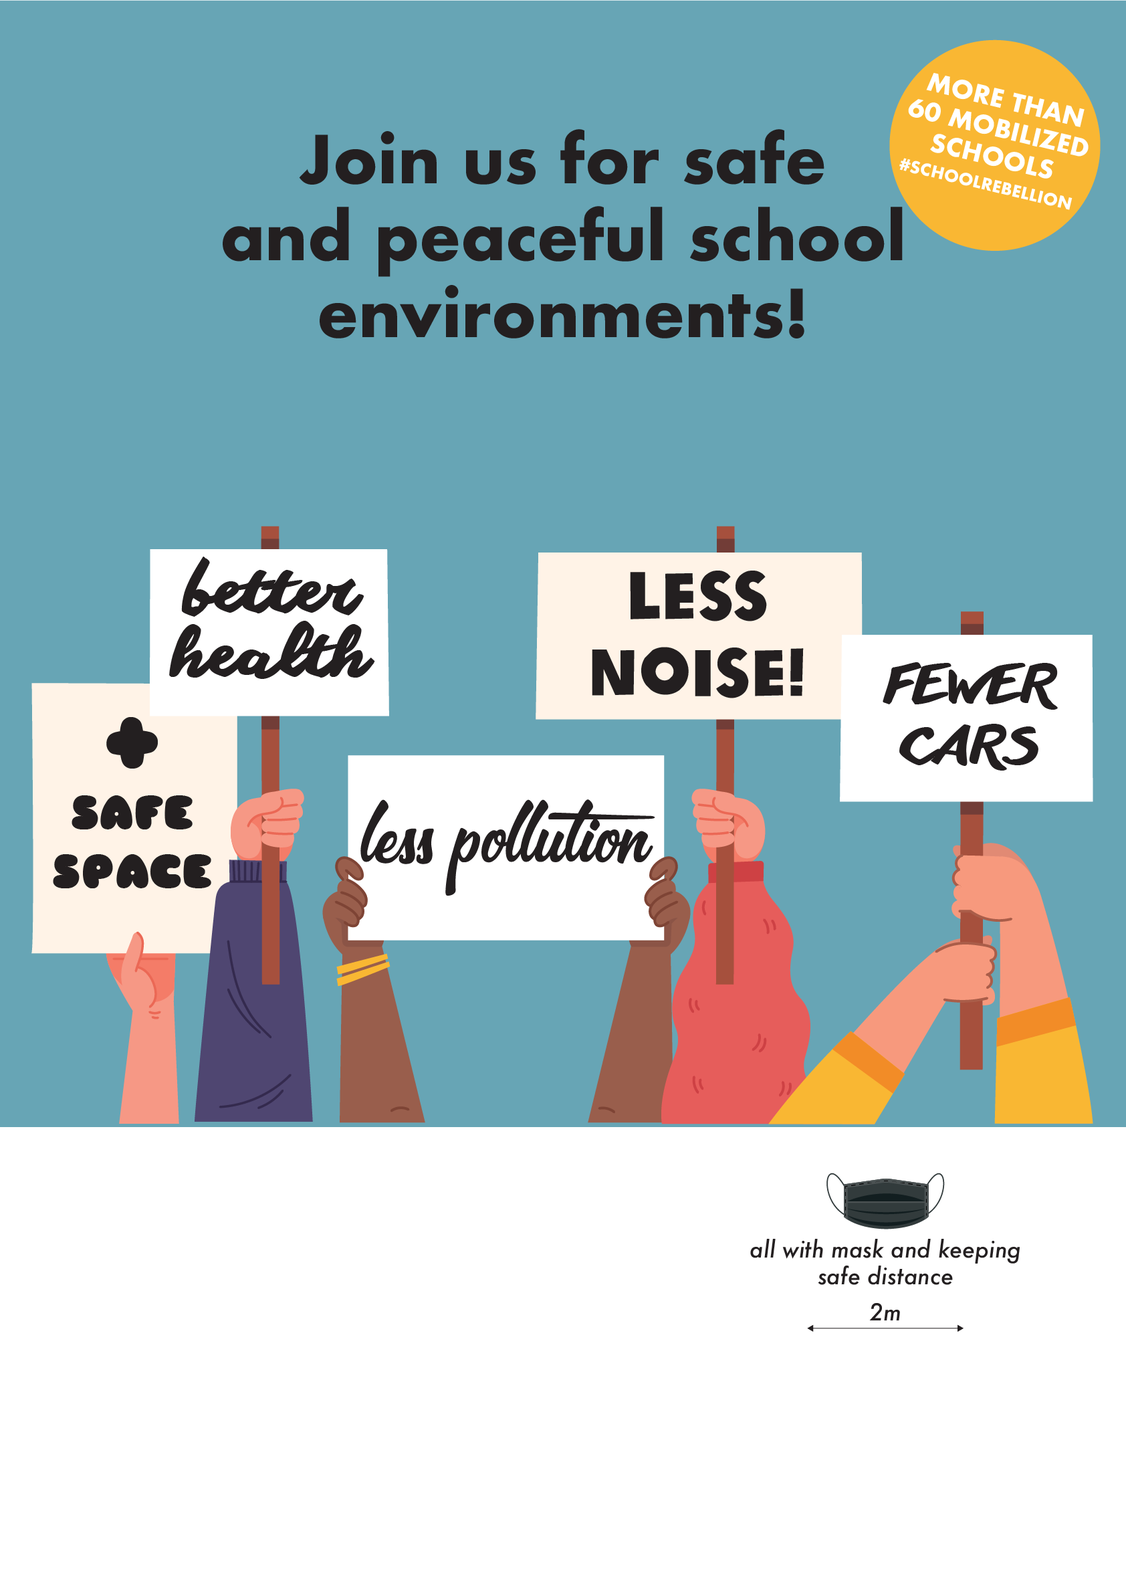
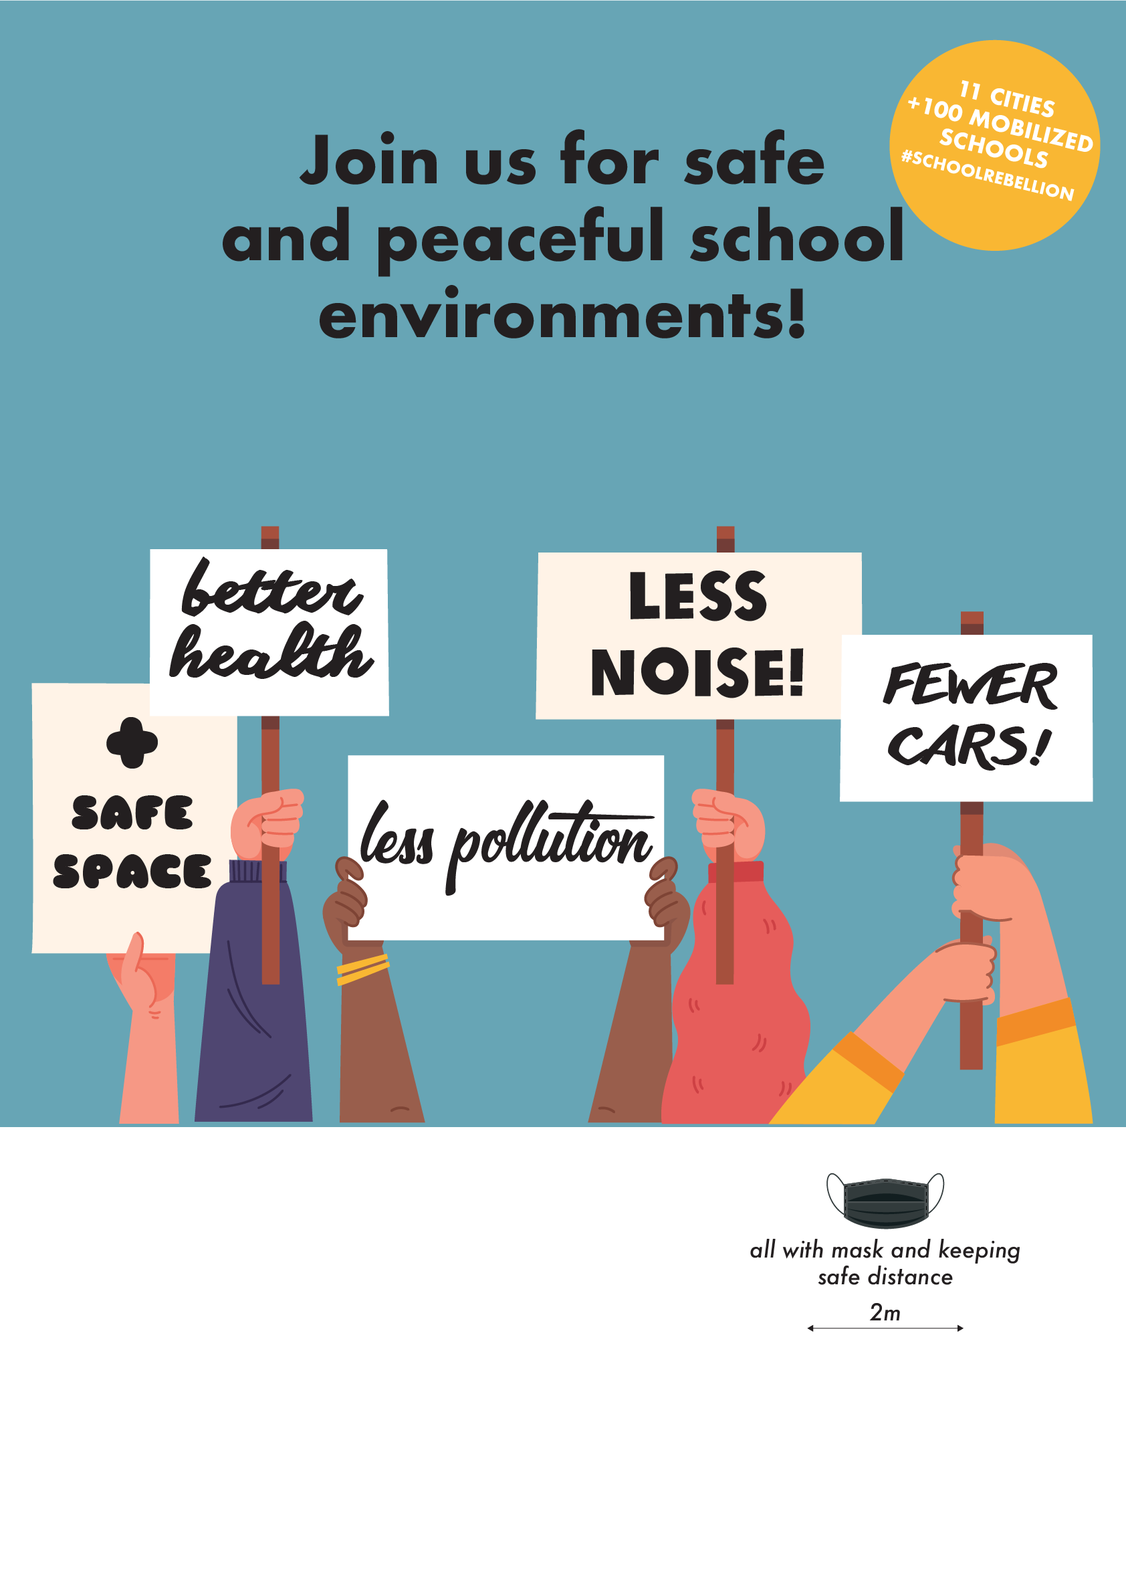
Added language selector to poster

Changed region(s): [[0.8029, 0.0311, 0.9881, 0.1242], [0.772, 0.4347, 0.9264, 0.4969]]

diff --git a/index.html b/index.html
@@ -34,18 +34,26 @@
       <img src="images/cartells.svg?v=2">
       <div class="text">
         <p class="big">PTAs (Parents and Teachers Associations), in collaboration with neighbourhood organizations, are carrying out roadblocks every 2 weeks on Fridays when leaving school to demand city officials greater street traffic pacification and safety of school environments, less pollution and less noise.</p>
-        <p>The protest started in Barcelona in December 2020, with 20 schools performing 17 roadblocks. It's been growing ever since! Last Friday, February 12th we were 63 mobilized schools, performing 52 roadblocks in three different cities. We are calling it the <a class="bold" href="https://twitter.com/search?q=%23schoolrebellion">#SchoolRebellion</a>. For February 26th we are hoping for other cities to join us. <b>Would you help us spread the word?</b></p>
-        <img src="/images/mapa-barcelona.jpg">
-        <h2 class="section">When will the next protests be?</h2>
-        <p>It is important that we all go together to make a greater impact. That is why we have marked the following dates: <b>February 26th</b>, <b>March 12th</b>, <b>March 26th</b>, etc. Always on Friday, every 2 weeks, and at the time of school closure.</p>
-        <h2 class="section">What should you do to join?</h2>
-        <p>First of all, the PTA of your education centre should approve adding to the protest, in a meeting. Once approved, you will have to notify your city officials of the date, time and place of the roadblock. This way, it will be the city police that will cut traffic off, thus guaranteeing your safety.</p>
-        <p>Secondly, you must maximize the announcement of the day, time and place of the protest; both to the families of the school, as well as to the neighbours and neighbourhood organizations. In this link, you can adapt and download the poster that we are all using in the protest.</p>
+        <p>The protest started in Barcelona in December 2020, with 20 schools performing 17 roadblocks. It's been growing ever since! Last Friday, February 26th, the sixth consecutive day of protests, we were +75 mobilized schools in eight different cities. We are calling it the <a class="bold" href="https://twitter.com/search?q=%23schoolrebellion">#SchoolRebellion</a>.</p>
+        <p><b>It would be great if your PTA also joined, taking the protest to your city!</b></p>
         <div class="menu">
+          <div class="button">
+            <a href="https://drive.google.com/drive/folders/1-CGQHudTTMbAgWMP_LFG0WACp9TWw_JF" target="_blank" style="background: #E65D5B;">Read our guide</a>
+          </div>
           <div class="button">
             <a href="poster" style="background: #F28C27">Download the poster</a>
           </div>
+          <div class="button">
+            <a href="https://docs.google.com/forms/d/1dUgkXlcKB9--D3cn6XEInjizBcrXhbKlJGA2I7lLXbQ?hl=en" target="_blank" style="background: #F9B733;">Notify the protest</a>
+          </div>
         </div>
+        <!-- <img src="/images/mapa-barcelona-en.jpg"><br>
+        <img src="/images/mapa-madrid-en.jpg"> -->
+        <h2 class="section">When will the next protests be?</h2>
+        <p>It is important that we all go together to make a greater impact. Next Friday of protests is <b>May 7th</b>. Always on Friday, every 2 weeks, and at the time of school closure.</p>
+        <h2 class="section">What should you do to join?</h2>
+        <p>First of all, the PTA of your education centre should approve adding to the protest, in a meeting. Once approved, you will have to notify your city officials of the date, time and place of the roadblock. This way, it will be the city police that will cut traffic off, thus guaranteeing your safety.</p>
+        <p>Secondly, you must maximize the announcement of the day, time and place of the protest; both to the families of the school, as well as to the neighbours and neighbourhood organizations. In this link, you can adapt and download the poster that we are all using in the protest.</p>
         <p>One of the keys to the success of the <a href="https://twitter.com/search?q=%23schoolrebellion">#SchoolRebellion</a> is the day and time it takes place: Friday, after school. It is important that when the students leave the centre, the street is already closed. In this way, it will be very easy for families to add themselves to the protest. It encourages them if you accompany the protest with some festive activity: music, games, etc, as long as the Covid-19 prevention measures allow it.</p>
         <p>We also recommend, a few days before the protest, that you get together a few families (in the park, or in a school classroom) to prepare posters for the protest. You can make very cool posters with some cardboard and some markers. You can use messages like: "Less cars, more health!", "Less noise!", "Less pollution!", etc. Having banners and posters works very well to encourage families to participate, and in this way the photos that are later running through the networks and WhatsApp groups speak for themselves.</p>
         <p>In <a href="https://www.dropbox.com/sh/5nrrhjelpm8jzcd/AAC_TeWQ7NxgBFY77eKLomvea?dl=0https://www.dropbox.com/sh/5nrrhjelpm8jzcd/AAC_TeWQ7NxgBFY77eKLomvea?dl=0">this link</a>, you can see some photos of our previous protests</p>
@@ -67,12 +75,159 @@
     </div>
     <div class="talls">
       <div class="inner">
-        <h2>51 roadblocks organized for<br>Friday, February 26 at 4:30 p.m.</h2>
-        <p><b>Barcelona:</b> Auró, Miralletes, Broggi, Diputació, Sagrada Família, Fructuós Gelabert, Octavio Paz, Els Llorers, Joan Miró, Institut Ernest Lluch, 9 Graons, Antoni Balmanya, Dovella, Torrent de Can Carabassa, Concepció, Rius i Taulet, Josep Maria Jujol, Ítaca, Anglesola, Voramar, Bogatell, Encants, Escola de les Aigües, Gaia, Jesuïtes Casp, Casas, Farigola, Arenal de Llevant, Ferran Sunyer, Fort Pienc, Pere Vila, Institut Pau Claris, Escola 30 passos, Mallorca, Pere IV, Institut Quatre Cantons, Claret, Auditori, Santa Anna, EBM El Fil, Pràctiques, Jaume I, EBM El Timbal, Pia Balmes, Tabor, Catalònia, Fluvià, Font d'en Fargas, Escola Poblenou, Torrent d'en Melis, Estel Guinardó, Bressol Montserrat, Rambleta del Clot, Ferdinand de Lesseps</b>
-        <p><b>Sabadell:</b> Enric Casassas, Samuntada, Joanot Alisenda, Nostra Llar.</p>
-        <p><b>Badalona:</b> Ventós Mir, Progrés, Badalona Port.</p>
-        <p><b>Sant Cugat:</b> Joan Maragall, Collserola.</p>
-        </p>
+        <h2>Schools involved on the protest:</h2>
+        <ol>
+          <h2 class="city">Badalona:</h2>
+          <li><u>Ventós Mir</u>: Industria amb Ignasi de Loiola.</li>
+          <li><u>Progrés</u>: Industria amb Providència.</li>
+          <li><u>Badalona Port</u>: Ponent amb Carrer Cervantes.</li>
+          <li><u>Gitanjali</u>: Martí Pujol.</li>
+
+          <h2 class="city">Barcelona:</h2>
+          <li><u>Auró</u>: Mallorca entre Urgell i Borrell (Eixample).</li>
+          <li><u>Miralletes</u> + <u>Broggi</u>: Indústria amb St. Quintí (Sant Martí).</li>
+          <li><u>Diputació</u>: Borrell amb Diputació (Eixample).</li>
+          <li><u>Sagrada Família</u> + <u>Fructuós Gelabert</u>: Sardenya amb Indústria (Gràcia i Eixample).</li>
+          <li><u>Octavio Paz</u>: Mallorca amb Biscai (Sant Andreu).</li>
+          <li><u>Els Llorers</u>: València entre Viladomat i Borrell (Eixample).</li>
+          <li><u>Joan Miró</u> + <u>Institut Ernest Lluch</u>: Entença amb Diputació (Eixample).</li>
+          <li><u>9 Graons</u>: Rosselló amb Roger de Flor (Eixample).</li>
+          <li><u>Antoni Balmanya</u>: Maria Claret amb Trinxant (Sant Martí).</li>
+          <li><u>Dovella</u>: Mallorca amb Muntanya (Sant Martí).</li>
+          <li><u>Torrent de Can Carabassa</u>: Llobregós (Horta-Guinardó).</li>
+          <li><u>Concepció</u>: Bruc entre València i Aragó (Eixample).</li>
+          <li><u>Ramon Llull</u>: Consell de Cent amb Sardenya (Eixample).</li>
+          <li><u>Rius i Taulet</u>: Maignon amb Vallcarca (Gràcia).</li>
+          <li><u>Josep Maria Jujol</u>: Riera de Sant Miquel (Gràcia).</li>
+          <li><u>Ítaca</u> + <u>Anglesola</u>: Numància amb Diagonal (Les Corts).</li>
+          <li><u>Voramar</u> + <u>Bogatell</u>: Badajoz amb Ramon Turró (Sant Martí).</li>
+          <li><u>Univers</u> + <u>Petit Univers</u>: Bailèn amb Travessera de Gràcia (Gràcia).</li>
+          <li><u>Encants</u>: Consell de Cent amb Cartagena (Eixample).</li>
+          <li><u>Xirinacs</u>: Entença amb Provença (Eixample).</li>
+          <li><u>Escola de les Aigües</u>: Taxdir amb Sardenya (Horta-Guinardó).</li>
+          <li><u>Gaia</u>: Consell de Cent amb Castillejos (Eixample).</li>
+          <li><u>Jesuïtes Casp</u>: Roger de Llúria amb Casp (Eixample).</li>
+          <li><u>Casas</u>: Clot Gran Via amb Sant Joan de Malta (Sant Martí).</li>
+          <li><u>Teixidores de Gràcia</u>: Escorial amb Encarnació (Gràcia).</li>
+          <li><u>Arenal de Llevant</u>: Bac de Roda amb Taulat (Sant Martí).</li>
+          <li><u>Ferran Sunyer</u>: Viladomat entre Parlament i Marqués de Campo Sagrado (Eixample).</li>
+          <li><u>Fort Pienc</u>: Alí Bei entre Sardenya i Nàpols (Eixample).</li>
+          <li><u>La Llacuna del Poblenou</u>: carrer Llacuna amb Pallars (Sant Martí).</li>
+          <li><u>Pere Vila</u> + <u>Institut Pau Claris</u>: passeig Lluís Companys (Ciutat Vella).</li>
+          <li><u>Pit-Roig</u> + <u>Arc Iris</u>: Alt de Pedrell (Horta-Guinardó).</li>
+          <li><u>Escola 30 passos</u>: Ferran Turné amb Berenguer de Palou (Sant Andreu).</li>
+          <li><u>Mallorca</u>: Londres entre Villaroel i Urgell (Eixample).</li>
+          <li><u>Pere IV</u> + <u>Institut Quatre Cantons</u>: Bilbao amb Pere IV.</li>
+          <li><u>Claret</u>: Maria Claret amb Sicília (Gracia).</li>
+          <li><u>Patronat Domenech</u>: Gran de Gràcia amb Nicolás Salmerón (Gracia).</li>
+          <li><u>Auditori</u>: Almogàvers entre Àlaba i Pamplona (Sant Martí).</li>
+          <li><u>Entença</u>: París, entre Viladomat i Comte Urgell (Eixample).</li>
+          <li><u>Santa Anna</u>: Bailén amb Diputació (Eixample).</li>
+          <li><u>EBM El Fil</u> + <u>Pràctiques</u> + <u>Jaume I</u> + <u>EBM El Timbal</u>: Numància entre Berlín i Robrenyo (Sants-Monjuïc).</li>
+          <li><u>Pia Balmes</u>: Travessera de Gràcia amb Balmes (Sarrià-Sant Gervasi).</li>
+          <li><u>Tabor</u>: Cartagena entre Mallorca i Provença (Eixample).</li>
+          <li><u>Catalònia</u>: Perú entre Selva de Mar i Fluvià (Sant Martí).</li>
+          <li><u>Fluvià</u>: Pujades amb Fluvià (Sant Martí).</li>
+          <li><u>Àngels Garriga</u>: Gallecs 22 (Horta-Guinardó).</li>
+          <li><u>Font d'en Fargas</u>: Pintor Pradilla (Horga-Guinardó).</li>
+          <li><u>Escola Poblenou</u>: Perú entre Espronceda i Bilbao (Sant Martí).</li>
+          <li><u>Torrent d'en Melis</u> + <u>Estel Guinardó</u> + <u>Bressol Montserrat</u>: Varsòvia amb Telègraf (Horta-Guinardó).</li>
+          <li><u>Rambleta del Clot</u>: Aragó 620 (Sant Martí).</li>
+          <li><u>Ferdinand de Lesseps</u>: Sicília amb Gran Via (Eixample).</li>
+          <li><u>Pau Casals de Gràcia</u>: Legalitat entre Alegre de Dalt i Pau Alsina (Gràcia).</li>
+          <li><u>La Farigola de Vallcarca</u>: Farigola entre Sant Càmil i Mare de Déu del Coll (Gràcia).</li>
+          <li><u>Carlit</u>: Roger de Flor entre Diputació i Consell de Cent (Eixample).</li>
+
+          <h2 class="city">Bilbao:</h2>
+          <li><u>Cervantes</u>: Lersundi 10.</li>
+
+          <h2 class="city">Cardedeu:</h2>
+          <li><u>Germans Corbella</u> + <u>Mil·lenari</u> + <u>Dolors Granés</u> + <u>Les Aigües</u> + <u> Can Manent</u> + <u>El Sui</u> + <u>Bressol Els Daus</u> + <u>Bressol Can Serra</u> + <u>Raspall</u> + <u>Institut Pla Marcell</u>: Plaça Joan Alsina</li>
+
+          <h2 class="city">Getafe:</h2>
+          <li><u>Miguel Hernández</u>: Calle Reyes Católicos.</li>
+
+          <h2 class="city">Girona:</h2>
+          <li><u>Àgora</u>: Passeig Ramon Berenguer II.</li>
+          <li><u>Joan Bruguera</u>: Artillers amb Bonastruc de Porta.</li>
+          <li><u>Pericot</u>: Andreu Tuyet i Santamaria</li>
+          <li><u>Montfalgars</u>: Montfalgars</li>
+          <li><u>Balandrau</u>: Carretera de Taialà entre rotondes de Fontajau i de Taialà</li>
+          <li><u>Annexa-Joan Puigbert</u>: Isabel La Catòlica, 24</li>
+          <li><u>El Bosc de la Pabordia</u>: Riera de Mus, 17</li>
+
+          <h2 class="city">Guadalajara:</h2>
+          <li><u>Liceo Caracense</u>: Teniente Figueroa, 6.</li>
+
+          <h2 class="city">Lugo:</h2>
+          <li><u>Rosalia de Castro</u>: Rua Cambria.</li>          
+
+          <h2 class="city">Madrid:</h2>
+          <li><u>Miguel de Unamuno</u>: Alicante 5 (Arganzuela).</li>
+          <li><u>Fernando el Católico</u>: Fernando el Católico 16 (Chamberí).</li>
+          <li><u>Asunción Rincón</u>: Filipinas 5, esquina Jesus Maestro (Chamberí).</li>
+          <li><u>Menéndez Pelayo</u>: Murcia / Rafael de Riego / Méndez Álvaro (Arganzuela).</li>
+          <li><u>Rufino Blanco</u>: General Álvarez de Castro, 10 (Chamberí).</li>
+          <li><u>Lope de Vega</u>: Inglaterra, 8 (Carabanchel).</li>
+          <li><u>Arcangel</u>: Titulcia entre Antonio Diaz Cañabate y Walia (Retiro).</li>
+          <li><u>Juan de Zaragüeta</u>: Tomás Redondo 4 (Hortaleza).</li>
+          <li><u>Palacio Valdes</u>: Almadén con Ceniceros (Centro).</li>
+          <li><u>La Melonera</u>: Eros 2 (Arganzuela).</li>
+          <li><u>El Almudena</u> + <u>Garcilaso de la Vega</u> + <u>Ramón Pérez de Ayala</u>: Motilla del Palancar (Hortaleza).</li>
+          <li><u>El Alba</u>: Toledo 181 (Arganzuela).</li>
+          <li><u>Vázquez de Mella</u>: Bailén 18 (Centro).</li>
+          <li><u>Ignacio Zuloaga</u>: Alejandro Rodríguez, 34 (Tetuán).</li>
+          <li><u>Méjico</u>: Carlota O’Neill (Ciudad Lineal).</li>
+          <li><u>San Eugenio y San Isidro</u>: Peñuelas (Arganzuela).</li>
+          <li><u>Claudio Moyano</u>: Cea Bermúdez 26 (Chamberí).</li>
+          <li><u>La Jara</u>: Hijas de Jesus (Usera).</li>
+          <li><u>Decroly</u>: Guzmán el Bueno 60 (Chamberí).</li>
+          <li><u>Luis Cernuda</u>: Puerto de Santa Maria 130 (Hortaleza).</li>
+          <li><u>Nuestra Señora de La Paloma</u>: Tabernillas 2 (Centro).</li>
+          <li><u>S.XXI</u>: Lituania 8 (Moratalaz).</li>
+          <li><u>San Benito</u>: Mariano Díaz Alonso (Ciudad Lineal).</li>
+          <li><u>La Latina</u>: Maqueda 130 (Latina).</li>
+          <li><u>Leopoldo Alas</u>: Pedrezuela 18.</li>
+          <li><u>Joaquín Rodrigo</u>: Casalarreina 28.</li>
+          <li><u>Zaleo</u>: Miguel Hernández 28.</li>
+          <li><u>Escuela Infantil Zofío</u>: Fornillos 3</li>
+          <li><u>Tirso de Molina</u>: Bronce 1</li>
+          
+          <h2 class="city">Melilla:</h2>
+          <li><u>León Solá</u>: Crta. Hidúm 64.</li>
+
+          <h2 class="city">Mollet del Vallès:</h2>
+          <li><u>Montseny</u>: Avinguda Badalona.</li>
+          <li><u>Aiguaviva</u></li>
+          <li><u>Sant Jordi</u></li>
+          <li><u>Can Besora</u></li>
+
+          <h2 class="city">Olot:</h2>
+          <li><u>Pla de Dalt</u>: Alforja.</li>              
+          
+          <h2 class="city">Sabadell</h2>
+          <li><u>Samuntada</u>: Pelai Briz.</li>
+          <li><u>Enric Casassas</u>: Carrer de les Paus amb Llobet.</li>     
+          <li><u>Nostra Llar</u>: Calderón entre Vallés i Ponent.</li>
+          <li><u>Joanot Alisanda</u>: Sallarés i Pla</li>
+          <li><u>La Trama</u>: Estrella</li>
+
+          <h2 class="city">Sant Cugat:</h2>
+          <li><u>Joan Maragall</u>: Passeig Sant Magí amb Rius i Taulet.</li>
+          <li><u>Collserola</u>: Abat Escarré.</li>
+          <li><u>Gerbert d´Horlac</u>: Josep Vicenç Foix.</li>
+
+          <h2 class="city">Valencia:</h2>
+          <li><u>Mare Nostrum</u>: Jose María de Haro con Blasco Ibañez.</li>
+
+          <h2 class="city">Vigo:</h2>
+          <li><u>Emilia Pardo Bazán "Chouzo"</u></li>
+
+          <h2 class="city">Zaragoza:</h2>
+          <li><u>Tenerias</u>: Plaza Tenerías.</li>
+          <li><u>San José de Calasanz</u>: Eduardo Salvador Hernaz, 43</li>
+          <li><u>Domingo Miral</u>: Mesones de Isuela</li>
+        </ol>
       </div>
     </div>
   </div>

diff --git a/poster.html b/poster.html
@@ -15,7 +15,7 @@
   <script src="/shared/js/html2canvas.min.js"></script>
   <script src="/shared/js/canvas2image.js"></script>
   <script src="/shared/js/sticky-kit.min.js"></script>
-  <script src="/shared/application.js?v=8"></script>
+  <script src="/shared/application.js?v=9"></script>
 </head>
 <body class="tool">
   <div class="layout">
@@ -24,78 +24,36 @@
       <h1>DOWNLOAD THE POSTER:</h1>
       <p>This tool is in beta. Fill in the fields and download the image. If you end up with any issue, please reach us at <a href="mailto:eixample.respira@gmail.com">eixample.respira@gmail.com</a>.</p>
       <div class="row">
+        <label>Language:</label>
+        <div class="shopify-select">
+          <select data-location>
+            <option value="https://www.schoolrebellion.com/poster">English</option>
+            <option value="https://www.revueltaescolar.es/poster">Español</option>
+            <option value="https://www.rebelliondesecoles.fr/poster">Français</option>
+            <option value="https://www.revoltaescolar.cat/poster">Català</option>
+          </select>
+          <svg class="shopify-select-icon" viewBox="0 0 24 24"><path d="M21 5.176l-9.086 9.353L3 5.176.686 7.647 12 19.382 23.314 7.647 21 5.176z"></path></svg>
+        </div>
+      </div>
+      <div class="row">
         <label>Subtitle:</label>
-        <input type="text" data-target=".poster .subtitle" placeholder="we will be blocking Main Street">
+        <input type="text" data-target=".poster .subtitle" placeholder="we will be blocking Main Street" value="we will be blocking Main Street">
       </div>
       <div class="row">
         <label>Date:</label>
-        <div class="shopify-select">
-          <select data-target=".poster .date">
-            <option>Friday, February 26th</option>
-            <option>Friday, March 12th</option>
-            <option>Friday, March 26th</option>
-          </select>
-          <svg class="shopify-select-icon" viewBox="0 0 24 24"><path d="M21 5.176l-9.086 9.353L3 5.176.686 7.647 12 19.382 23.314 7.647 21 5.176z"></path></svg>
-        </div>
+        <input type="text" data-target=".poster .date" placeholder="Friday, May 7th" value="Friday, May 7th">
       </div>
       <div class="row">
         <label>Time:</label>
-        <div class="shopify-select">
-          <select data-target=".poster .time">
-            <option>10:00</option>
-            <option>10:15</option>
-            <option>10:30</option>
-            <option>10:45</option>
-            <option>11:00</option>
-            <option>11:15</option>
-            <option>11:30</option>
-            <option>11:45</option>
-            <option>12:00</option>
-            <option>12:15</option>
-            <option>12:30</option>
-            <option>12:45</option>
-            <option>13:00</option>
-            <option>13:15</option>
-            <option>13:30</option>
-            <option>13:45</option>
-            <option>14:00</option>
-            <option>14:15</option>
-            <option>14:30</option>
-            <option>14:45</option>
-            <option>15:00</option>
-            <option>15:15</option>
-            <option>15:30</option>
-            <option>15:45</option>
-            <option>16:00</option>
-            <option>16:15</option>
-            <option selected>16:30</option>
-            <option>16:45</option>
-            <option>17:00</option>
-            <option>17:15</option>
-            <option>17:30</option>
-            <option>17:45</option>
-            <option>18:00</option>
-          </select>
-          <svg class="shopify-select-icon" viewBox="0 0 24 24"><path d="M21 5.176l-9.086 9.353L3 5.176.686 7.647 12 19.382 23.314 7.647 21 5.176z"></path></svg>
-        </div>
+        <input type="text" data-target=".poster .time" placeholder="16:30 h" value="16:30 h">
       </div>
       <div class="row">
         <label>Location:</label>
-        <input type="text" data-target=".poster .location" maxlength="38" placeholder="Main Street between 3rd and 4rth">
+        <input type="text" data-target=".poster .location" placeholder="Main Street between 3rd and 4rth" value="Main Street between 3rd and 4rth">
       </div>
       <div class="row">
         <label>Duration:</label>
-        <div class="shopify-select">
-          <select data-target=".poster .duration">
-            <option>30 minutes</option>
-            <option>45 minutes</option>
-            <option>1 hour</option>
-            <option>2 hours</option>
-            <option>3 hours</option>
-            <option>4 hours</option>
-          </select>
-          <svg class="shopify-select-icon" viewBox="0 0 24 24"><path d="M21 5.176l-9.086 9.353L3 5.176.686 7.647 12 19.382 23.314 7.647 21 5.176z"></path></svg>
-        </div>
+        <input type="text" data-target=".poster .duration" placeholder="Duration: 30 minutes" value="Duration: 30 minutes">
       </div>
       <div class="row">
         <label>Organization entities logo:</label>
@@ -118,13 +76,13 @@
     <div class="right">
       <div class="container">
         <div class="poster">
-          <img class="background" src="/images/base-en.png">
+          <img class="background" src="/images/base-en.png?v=3">
           <div class="text subtitle">we will be blocking Main Street</div>
           <div class="text info">
-            <b><span class="date">Friday, February 26th</span></b><br>
-            <b><span class="time">16:30</span> h</b><br>
+            <b><span class="date">Friday, May 7th</span></b><br>
+            <b><span class="time">16:30 h</span></b><br>
             <span class="location">Main Street between 3rd and 4rth</span><br>
-            Duration: <span class="duration">30 minutes</span>
+            <span class="duration">Duration: 30 minutes</span>
           </div>
           <div class="logos">
             <div class="section summons">

diff --git a/shared/application.js b/shared/application.js
@@ -10,6 +10,9 @@ $(document).ready(function() {
   };
 
   $(document)
+    .on('change', 'select[data-location]', function(e){
+      window.location.href = $(this).val();
+    })
     .on('keyup', '[type=text][data-target]', function(e){
       var el = $(this).attr('data-target');
       $(el).html($(this).val());
